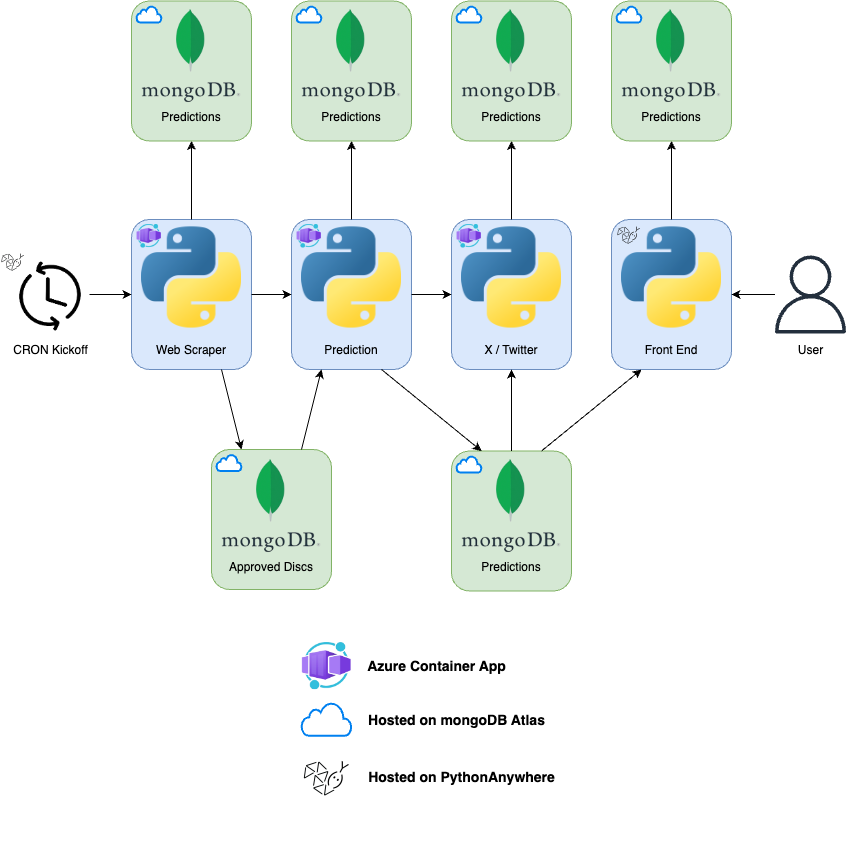
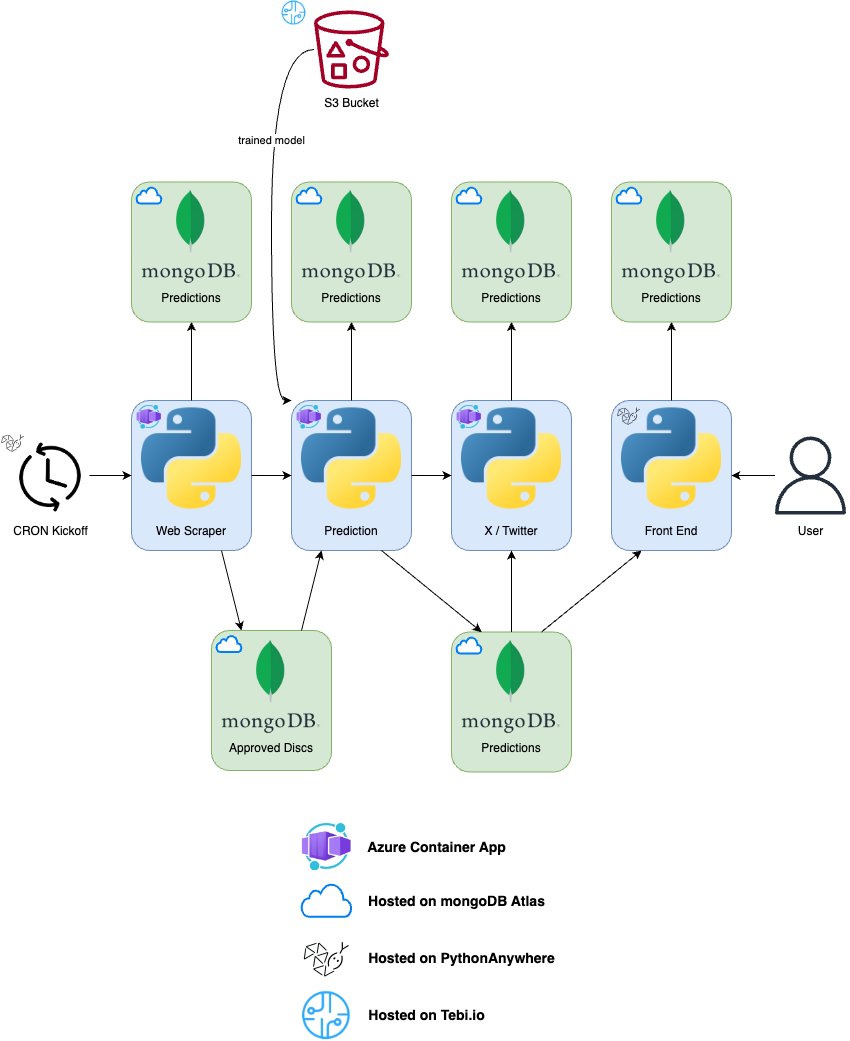
Update Architecture section of README

diff --git a/README.md b/README.md
@@ -32,3 +32,7 @@ This project scrapes the PDGA site daily to check for newly approved discs. Upon
 ## Architecture
 
 ![architecture-diagram](assets/architecture.png)
+
+This system deploys three Dockerized ReST services to Azure Container Apps. Another service, the front end, is deployed on PythonAnywhere and hosted using Cloudflare. These services read and/or write to mongoDB collections. The scraping service is kicked off daily by a CRON job with makes a call to the web scraper, which automatically kicks off the full system if new discs are added.
+
+Services are automatically updated with the most recent push to `main` using a Github workflow that builds each Docker container and pushes it to Docker Hub.
